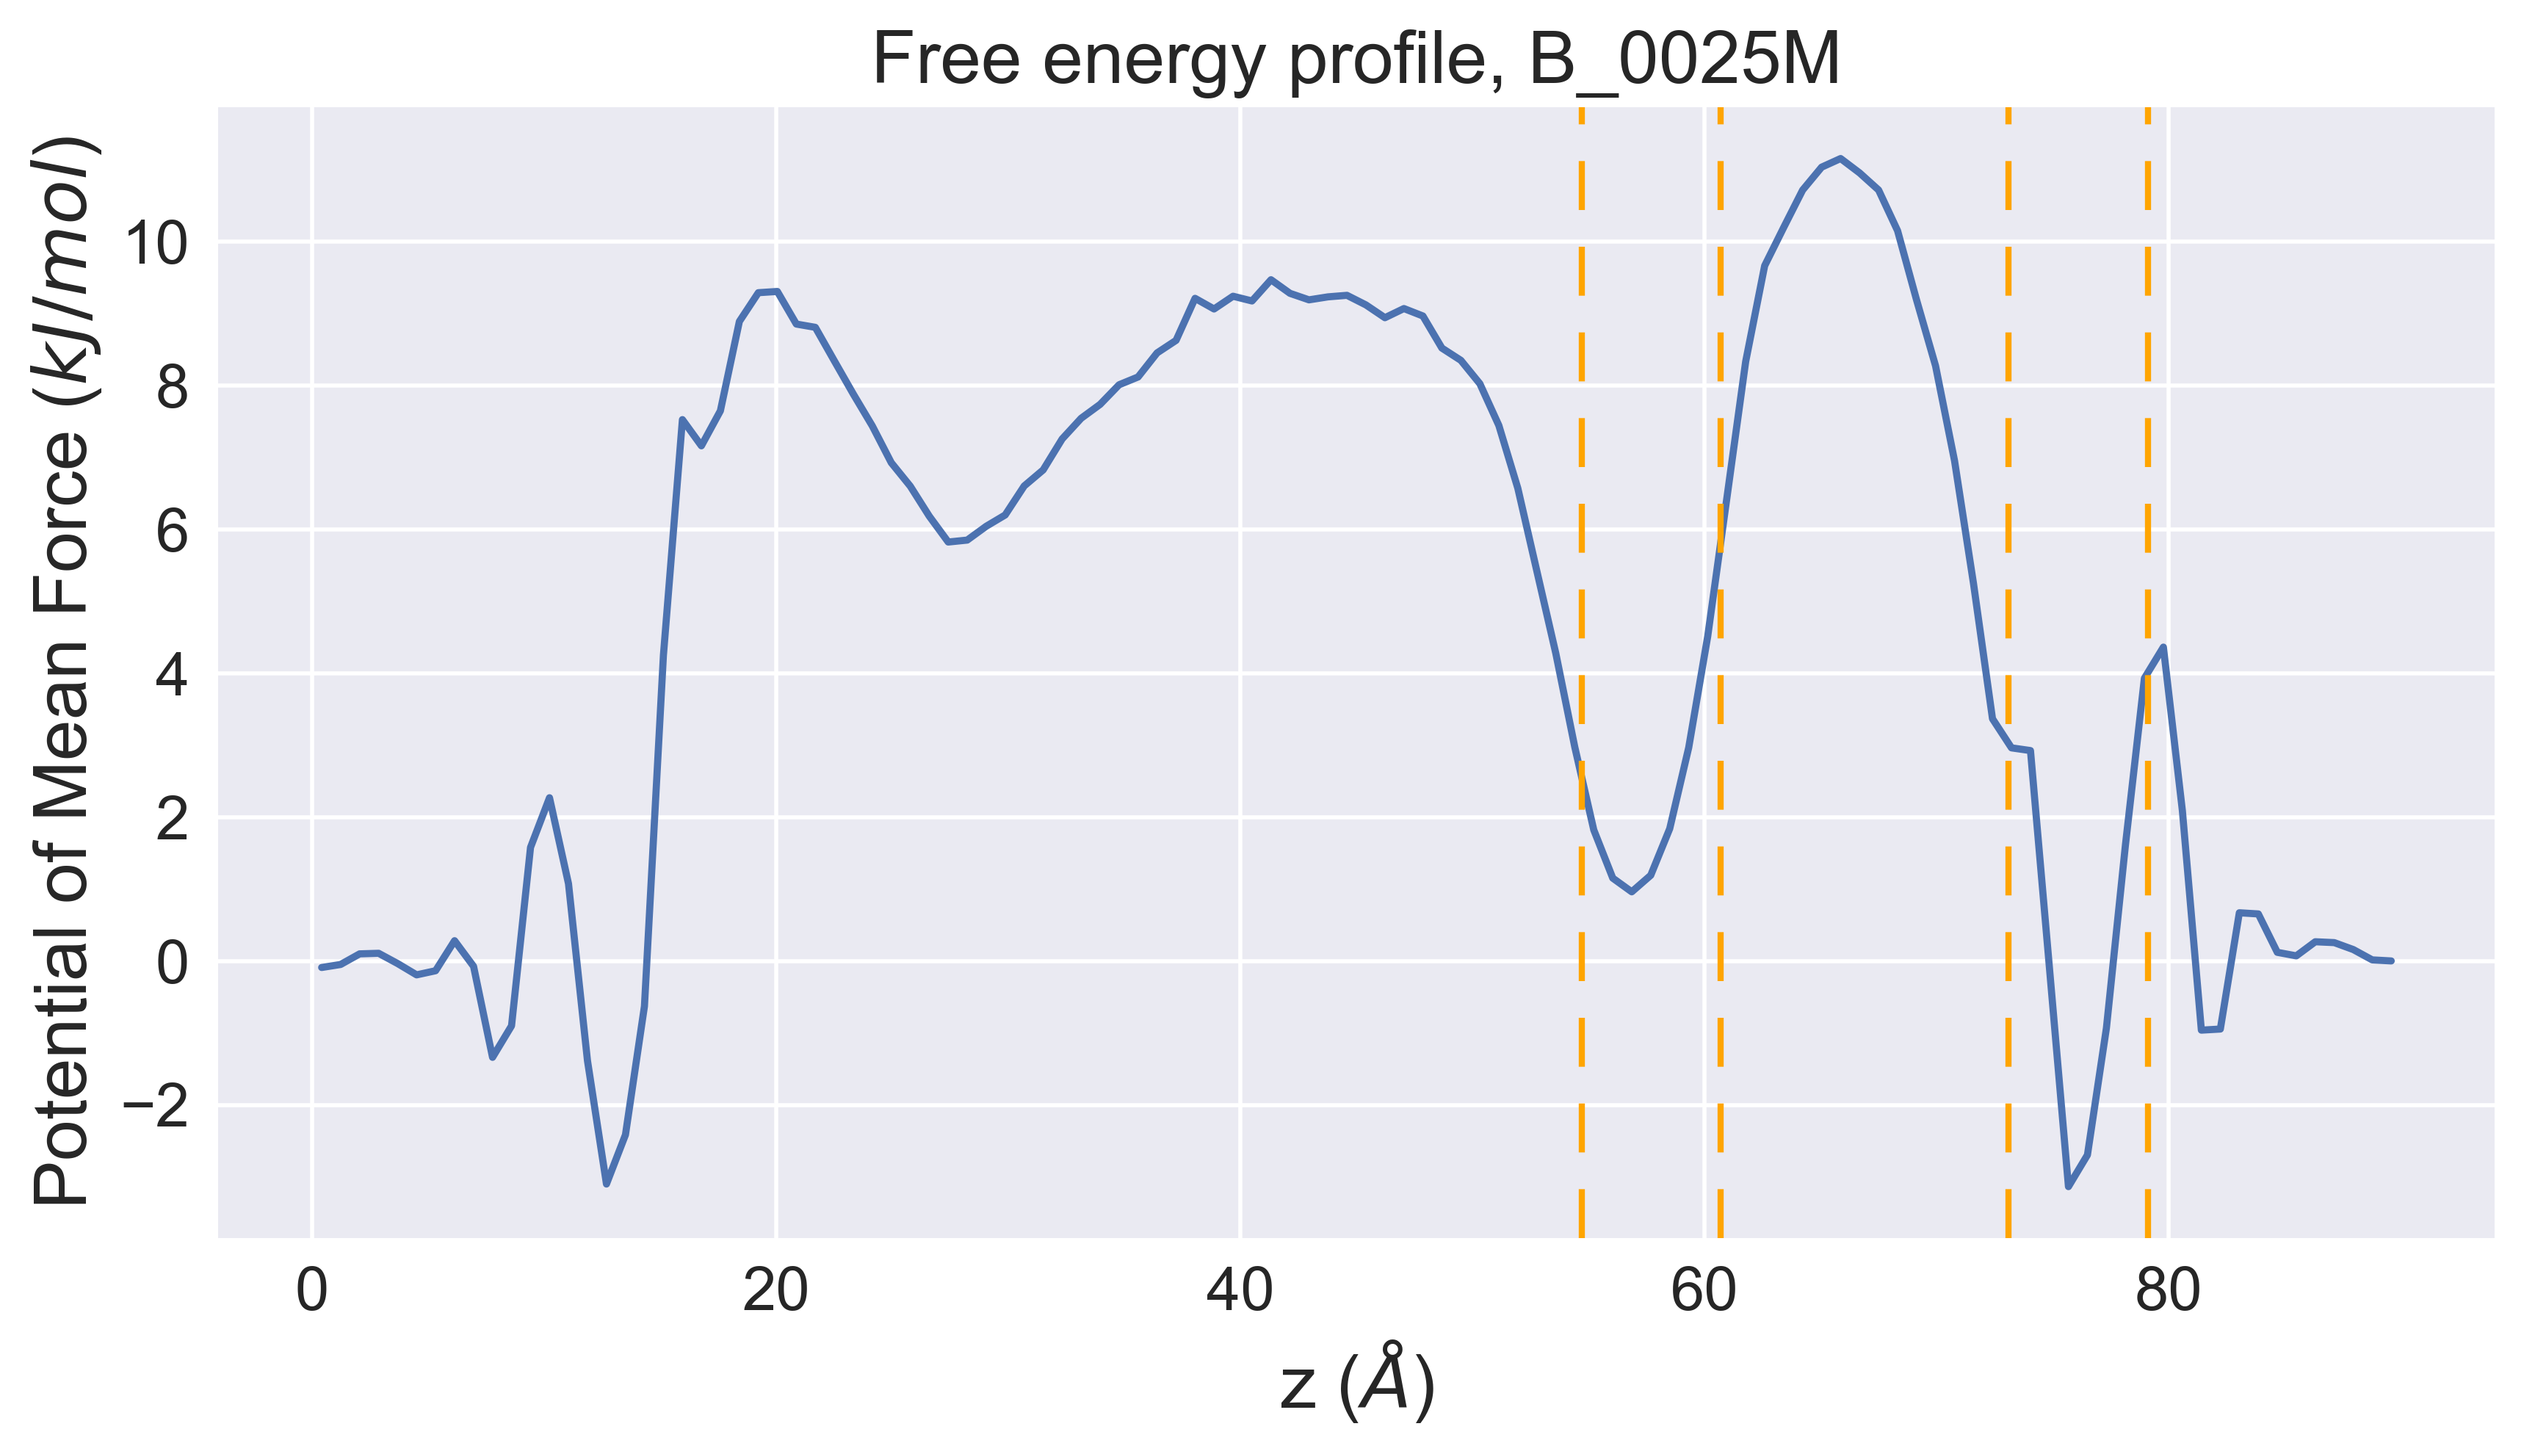
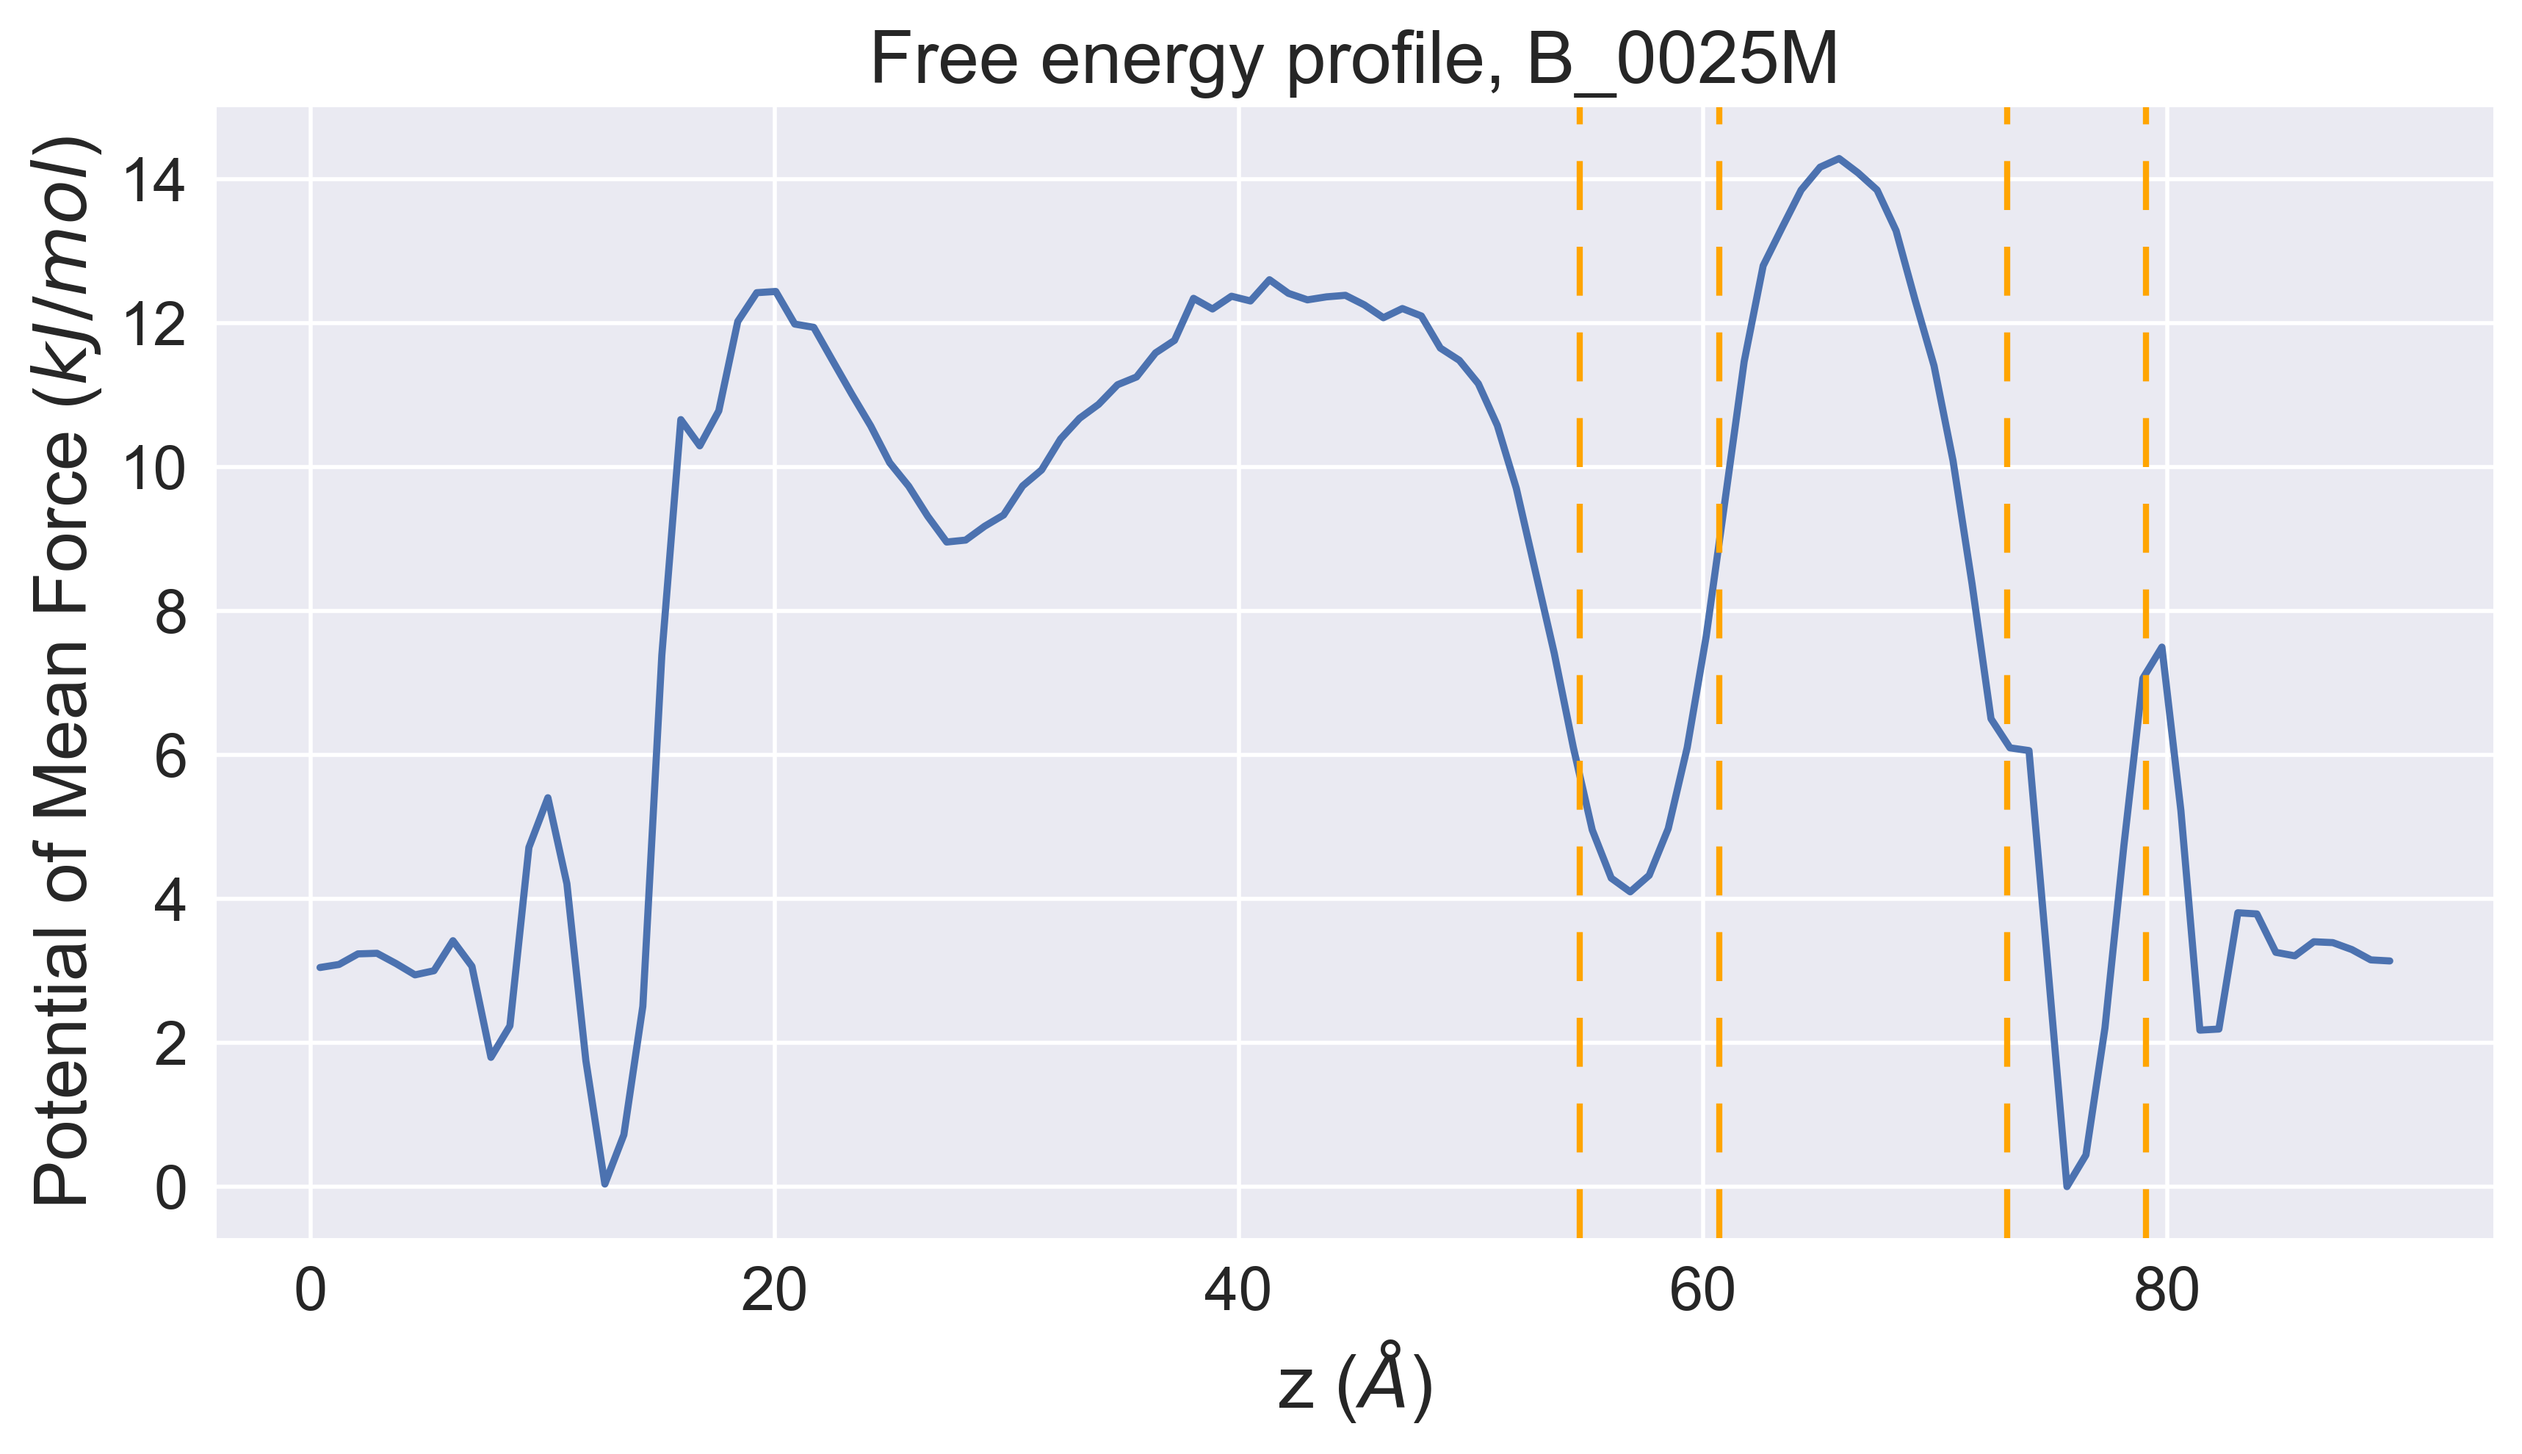
0 of free energy is now the minimum of second box

diff --git a/Libraries/custom_plot.py b/Libraries/custom_plot.py
@@ -49,7 +49,7 @@ def plot_hist_zcounts(coord : Sequence[float], /, *,z_start: float, z_end : floa
     plt.close()
 
 # Plot free energy
-def plot_free_energy(coord : Sequence[float], /, *,z_start : float, z_end : float, delta_z : float, filename : str, n_bins : int, 
+def plot_free_energy(coord : Sequence[float], /, *, z_start : float, z_end : float, delta_z : float, filename : str, n_bins : int, 
         savefig_directory : str, add_savefig_name : str = '', savefigures : bool = True, **kwargs) -> NoReturn:
 
     plt.figure(figsize = (10,5))
@@ -64,7 +64,9 @@ def plot_free_energy(coord : Sequence[float], /, *,z_start : float, z_end : floa
     bin_lenght = bins[1]-bins[0]
     energy = [free_energy(count, tot_frame, bin_lenght) for count in counts]
 
-    plt.plot( bins[1:] - bin_lenght/2, energy - energy[-1], linestyle = '-')
+    index_z_start = np.argmax( counts[ int(70/bin_lenght) :  int(80/bin_lenght)] )  + int(70/bin_lenght) # finds where the max of counts is for 70<z<80
+
+    plt.plot( bins[1:] - bin_lenght/2, energy - energy[index_z_start], linestyle = '-')
     plt.axvline(x=z_start + delta_z, color = boxes_color, dashes = dashes_imp, linewidth = boxes_linewidth)
     plt.axvline(x=z_start - delta_z, color = boxes_color, dashes = dashes_imp, linewidth = boxes_linewidth)
     plt.axvline(x=z_end + delta_z, color = boxes_color, dashes = dashes_imp, linewidth = boxes_linewidth)
@@ -113,8 +115,11 @@ def free_energy_comparison(coord : Sequence[float],coord2 : Sequence[float], /, 
     energy = [free_energy(count, tot_frame, bin_lenght) for count in counts]
     energy2 = [free_energy(count2, tot_frame, bin_lenght2) for count2 in counts2]
 
-    plt.plot( bins[1:] - bin_lenght/2, energy - energy[-1], linestyle = '-', label = f'{molarity1}M')
-    plt.plot( bins2[1:] - bin_lenght2/2, energy2 - energy2[-1], linestyle = '-', label = f'{molarity2}M')
+    index_z_start = np.argmax( counts[ int(70/bin_lenght) :  int(80/bin_lenght)] )  + int(70/bin_lenght) # finds where the max of counts is for 70<z<80
+    index_z_start2 = np.argmax( counts2[ int(70/bin_lenght2) :  int(80/bin_lenght2)] )  + int(70/bin_lenght2) # finds where the max of counts is for 70<z<80
+
+    plt.plot( bins[1:] - bin_lenght/2, energy - energy[index_z_start], linestyle = '-', label = f'{molarity1}M')
+    plt.plot( bins2[1:] - bin_lenght2/2, energy2 - energy2[index_z_start2], linestyle = '-', label = f'{molarity2}M')
     plt.axvline(x=z_start + delta_z, color = boxes_color, dashes = dashes_imp, linewidth = boxes_linewidth)
     plt.axvline(x=z_start - delta_z, color = boxes_color, dashes = dashes_imp, linewidth = boxes_linewidth)
     plt.axvline(x=z_end + delta_z, color = boxes_color, dashes = dashes_imp, linewidth = boxes_linewidth)

diff --git a/MFPT.py b/MFPT.py
@@ -36,7 +36,7 @@ Optional: production of graphs for Free Energy, Trajectory, Histogram of z count
 def NPY_data_analysis(NPY : str) -> NoReturn:
 
     # Getting file infos from filename: it must be of the format A_0M.npy (one or more digits before M, any letter at the beginning)
-    # beginning numbers identify the sistem, number before 'M' identify molarity.
+    # letter identify the system, number before 'M' identify molarity.
     pattern = re.compile( r'''
     (^             # Beginning of group: system_name.   ^ ->beginning of string
     [a-zA-Z])_            # Letter identifying the system
@@ -57,12 +57,14 @@ def NPY_data_analysis(NPY : str) -> NoReturn:
     # Find z_start, z_min from z counts histogram    
     hist, bins = np.histogram(z_coordinate_NAR, bins = params.n_bins)
     dz = bins[1]-bins[0] # Angstrom
-    z_start = ( np.argmax( hist[ int(70/dz) :  int(80/dz)] )  + int(70/dz) )* dz  # finds where the max of counts is for 70<z<80
+    index_z_start = np.argmax( hist[ int(70/dz) :  int(80/dz)] )  + int(70/dz) # finds where the max of counts is for 70<z<80
+    z_start = index_z_start * dz 
     z_end = ( np.argmax( hist[ int(40/dz) : int(70/dz) ] ) + int(40/dz) )* dz  # finds where the max of counts is for 40<z<70
     
     #Plot trajectory, z counts histogram and free energy
     if params.plot_graphs:
-        plotting_params['filename'] = NPY.removesuffix('.npy')        
+        plotting_params['filename'] = NPY.removesuffix('.npy')  
+        plotting_params['index_z_start'] = index_z_start      
         plotting_params['z_start'] = z_start
         plotting_params['z_end'] = z_end
         custom_plt.plot_trajectory(z_coordinate_NAR, **plotting_params)
